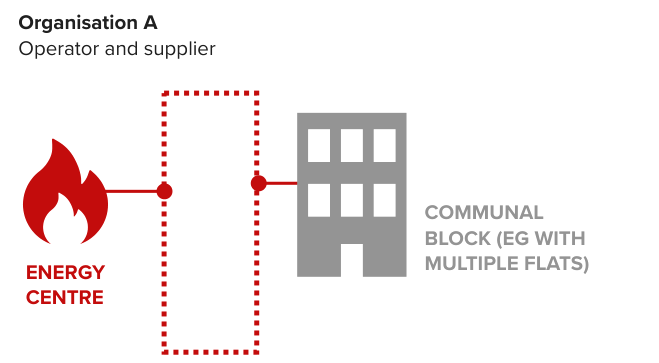
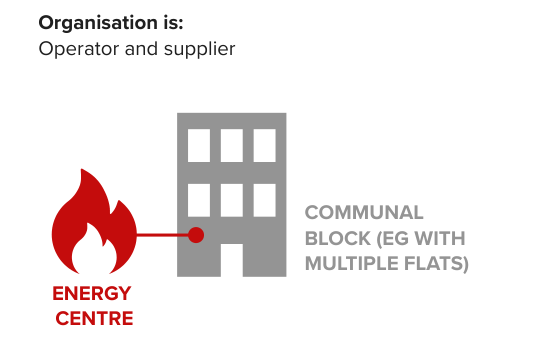
Prototype fixes

Changed region(s): [[0.0297, 0.2339, 0.8905, 0.9942], [0.0297, 0.0292, 0.4453, 0.1754]]

diff --git a/app/views/v8/add-heat-network/introduction-2/include.html b/app/views/v8/add-heat-network/introduction-2/include.html
@@ -40,20 +40,20 @@
                         <h2 class="govuk-heading-m">Common examples</h2>
                         <h3 class="govuk-heading-s">1. A communal heat network</h2>
                         <img src="/public/images/Heat-Network-Diagram-1.png" style="max-width: 300px;" class="govuk-!-margin-bottom-3"/>
-                        <p class="govuk-body">We would expect organisation A to do one submission for this network.</p>
+                        <p class="govuk-body">We would expect the organisation to do one submission for this heat network.</p>
                         <hr class="govuk-section-break govuk-section-break--l govuk-section-break--visible">
                         <h3 class="govuk-heading-s">2. A district network</h2>
                         <img src="/public/images/Heat-Network-Diagram-2.png" style="max-width: 350px" class="govuk-!-margin-bottom-3" />
-                        <p class="govuk-body">We would expect organisation B to do one submission for this network.</p>
+                        <p class="govuk-body">We would expect the organisation to do one submission for this heat network.</p>
                         <hr class="govuk-section-break govuk-section-break--l govuk-section-break--visible">
-                        <h3 class="govuk-heading-s">3. A district network with a connected communal network</h2>
+                        <h3 class="govuk-heading-s">3. A district network with a connected building that has multiple customers</h2>
                         <img src="/public/images/Heat-Network-Diagram-3.png" style="max-width: 350px;" class="govuk-!-margin-bottom-3"/>
-                        <div class="govuk-inset-text">If the network is a district network, include communal blocks or buildings that have multiple customers or premises in them. </div>
-                        <p class="govuk-body">We would expect organisation C to do one submission for this network.</p>
+                        <div class="govuk-inset-text">If the network is a district network, include communal blocks or buildings that have multiple customers or premises in them.</div>
+                        <p class="govuk-body">We would expect the organisation to do one submission for these heat networks.</p>
                         <hr class="govuk-section-break govuk-section-break--l govuk-section-break--visible">
-                        <h3 class="govuk-heading-s">4. A district network with connected communal networks and a bulk supply arrangement between two organisations</h2>
+                        <h3 class="govuk-heading-s">4. A district network with connected communal blocks and a bulk supply arrangement between two organisations</h2>
                         <img src="/public/images/Heat-Network-Diagram-4.png" style="max-width: 350px;" class="govuk-!-margin-bottom-3"/>
-                        <p class="govuk-body">We would expect two submissions for this heat network - one from organisation D and another from organisation E.</p>
+                        <p class="govuk-body">We would expect two submissions for these heat networks - one from organisation D and another from organisation E.</p>
 
     
             </div>

diff --git a/app/views/v8/add-heat-network/introduction-2/communalnetworks.html b/app/views/v8/add-heat-network/introduction-2/communalnetworks.html
@@ -63,9 +63,6 @@
 
                     </legend>
 
-                    <div class="govuk-hint">
-                        These are 'connected communal networks'.
-                    </div>
 
                                         {% if data.validationErrors.communalnetworks %}
                     <p class="govuk-error-message">
